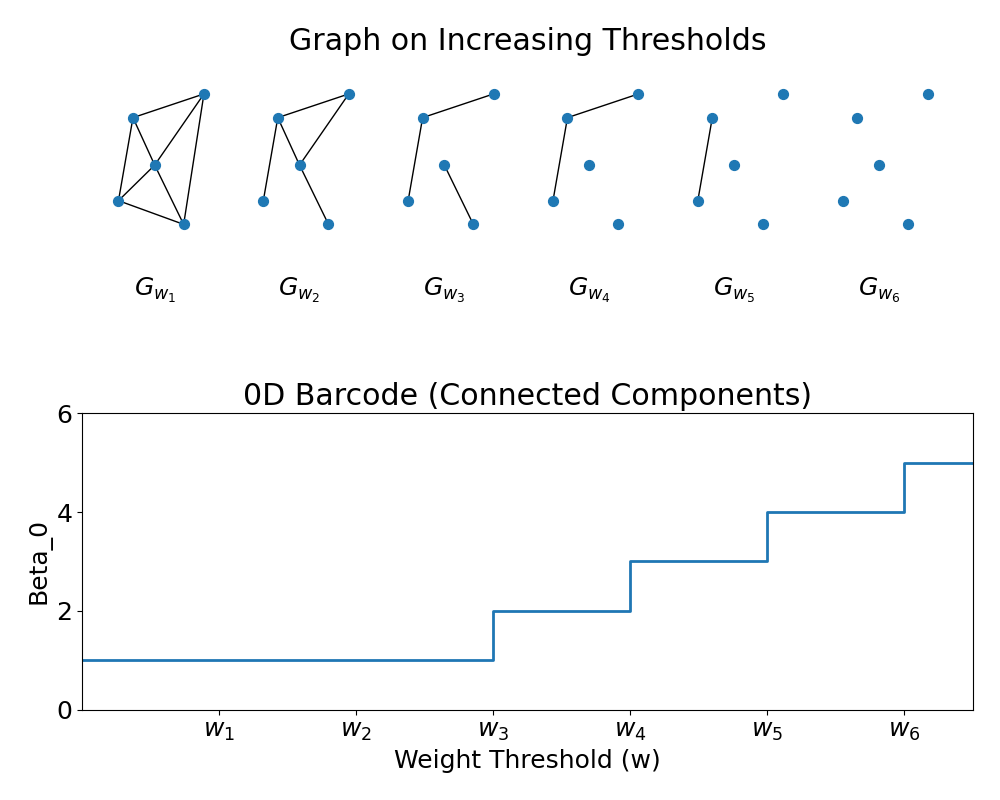
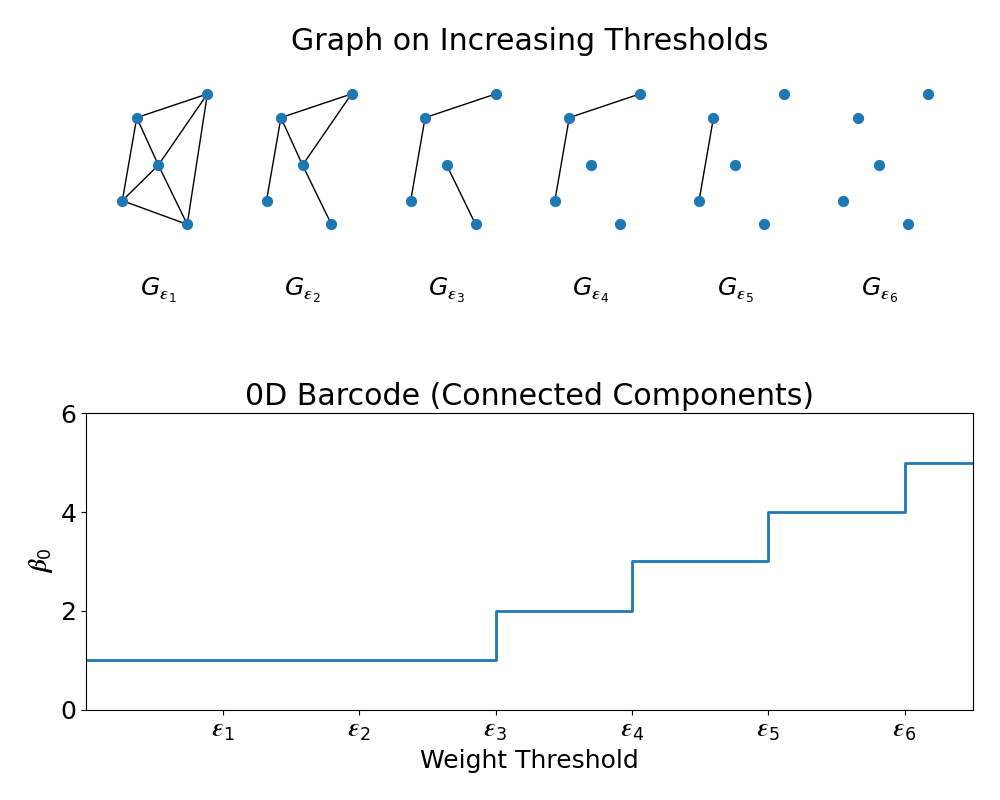
updated before defense

diff --git a/main.py b/main.py
@@ -175,8 +175,10 @@ def random_seed_search(subject_manager, n_clusters, topo_relative_weight, max_it
     best_labels_true = None
     best_seed = None
     labels_true = subject_manager.get_labels()
-
-    for seed in range(1000):
+    
+    sum_aris = 0
+    aris_list = []
+    for seed in range(100):
         config.random_seed = seed
         # Create the clustering model with the current seed
         clustering_model = src.clustering.k_centroids_clustering(subject_manager, n_clusters, topo_relative_weight, max_iter_alt,
@@ -195,12 +197,15 @@ def random_seed_search(subject_manager, n_clusters, topo_relative_weight, max_it
             best_labels_pred = labels_pred
             best_labels_true = labels_true
             best_seed = seed
-
+        sum_aris += ari_score
+        aris_list.append(ari_score)
     # After iterating through all seeds, print the best ARI and its corresponding labels and seed
     print('Best Adjusted Rand Index:', best_ari_score)
     print('Best Seed:', best_seed)
-    print('Best Labels Predicted:', best_labels_pred)
-    print('Labels True:', best_labels_true)
+    print('Average ARI:', sum_aris / 100)
+    print('variance:', np.var(aris_list))
+    #print('Best Labels Predicted:', best_labels_pred)
+    #print('Labels True:', best_labels_true)
     logging.info(f"Best ARI: {best_ari_score} with Random Seed: {best_seed}")
 
 def iter_search(subject_manager):
@@ -223,7 +228,7 @@ def k_centroids_test(subject_manager):
     topo_relative_weight = 0.25  # 'topo_relative_weight' between 0 and 1
 
     # Single test flag for single parameter testing
-    single_test = 1
+    single_test = 0
     if single_test == 1:
     
         clustering_model = src.clustering.k_centroids_clustering(subject_manager, n_clusters, topo_relative_weight, max_iter_alt,
@@ -239,18 +244,15 @@ def k_centroids_test(subject_manager):
         print(labels_true)
     else:
         # grid_search(subject_manager)
-        # random_seed_search(subject_manager, n_clusters, topo_relative_weight, max_iter_alt,max_iter_interp,learning_rate)
+        random_seed_search(subject_manager, n_clusters, topo_relative_weight, max_iter_alt,max_iter_interp,learning_rate)
         # iter_search(subject_manager)
-        clustering_model = src.clustering.k_centroids_clustering(subject_manager, n_clusters, topo_relative_weight, max_iter_alt,
-                                    max_iter_interp,
-                                    learning_rate)
-        clustering_model.visualize_with_MDS()
+        # clustering_model = src.clustering.k_centroids_clustering(subject_manager, n_clusters, topo_relative_weight, max_iter_alt, max_iter_interp, learning_rate)
 
 def similarity_score():
     subject_manager = SubjectLoader()
     subject_manager.load_subject_data()
     subject_manager.mci_correct()
-    group_averages = calculate_group_averages(subject_manager.subjects)
+    group_averages = calculate_group_averages(subject_manager.subjects, config.adj_mode)
     #print_subject_info(subject_manager)
     dissimilarity_matrix, groups = compute_dissimilarity_between_groups(group_averages)
     cn_average_dissimilarity = np.mean(dissimilarity_matrix[0])
@@ -354,10 +356,10 @@ def svm_classification(subject_loader, l1, l2):
     
     for subject in subject_loader.subjects:
         # Set the barcode mode to config values
-        barcode = get_barcode(subject.data, barcode_mode=config.barcode_mode, adj_mode=config.adj_mode, l = 0.462)
+        barcode = get_barcode(subject.data, barcode_mode=config.barcode_mode, adj_mode=config.adj_mode, l = 0.5)
         # plot_barcode(barcode)
         subject.set_barcode(barcode)
-    results = run_svm_classification(subject_loader.subjects, l1, l2, c_value = 1, cv_folds=5)
+    results = run_svm_classification(subject_loader.subjects, l1, l2, c_value = 1, cv_folds=5, random_state = 0)
 
     print(f"Average Cross-Validation Score: {results['average_score']}")
     print(f"Cross-Validation Scores for Each Fold: {results['cv_scores']}") 
@@ -372,14 +374,20 @@ if __name__ == '__main__':
     print(f"Adjacency Matrix Mode: {'Original' if config.adj_mode == 'original' else 'Ignore Negative Edges' if config.adj_mode == 'ignore_negative' else 'Absolute Values'}")
     print(f"Labeling Mode: {'Original Labels' if config.label_mode == 'original' else 'Binary Labels'}")
 
+    # The following code calculates the similarity between the group averages
+    # similarity_score()
+
+    # The following code tests the k-centroids clustering algorithm
     subject_manager = load_content()
-    # k_centroids_test(subject_manager)  
+    k_centroids_test(subject_manager)  
 
-    # l1= 0.85, l2 = 0.94
-    # c = 1, l = 0.99, random_state = 0
 
-    l1 = 0.85
-    l2 = 0.94
-    svm_classification(subject_manager, l1, l2)
+
+
+    # The following code tests the svm classification algorithm
+
+    l1 = 1
+    l2 = 1
+    # svm_classification(subject_manager, l1, l2)
 
     

diff --git a/src/clustering.py b/src/clustering.py
@@ -165,50 +165,4 @@ class k_centroids_clustering:
         sorted_death_ind = tuple(np.array(death_ind)[:, sorted_temp_ind])
         return sorted_birth_ind, sorted_death_ind
 
-    def visualize_with_MDS(self):
-        """
-        Visualizes the data points in a 2D plane by applying Multidimensional Scaling (MDS)
-        to the topological distances calculated by _compute_top_dist.
-        """
-        
-        X = self._barcode_to_array()  # Data array
-        assigned_centroids = X[random.sample(range(X.shape[0]), 1)]
-        # Calculate the pairwise topological distances matrix
-        if config.barcode_mode == "cycle":
-            n_node = 359 
-        elif config.barcode_mode == "attached":
-            n_node = 360
-        else:
-            print("Barcode Mode", config.barcode_mode," not supported in fit_predict function")
-        
-        n_edges = math.factorial(n_node) // math.factorial(2) // math.factorial(
-            n_node - 2)  # n_edges = (n_node choose 2)
-        self.weight_array = np.append(
-                np.repeat(1 - self.top_relative_weight, n_edges),
-                np.repeat(self.top_relative_weight, n_edges))
-        distances_matrix = np.zeros((len(X), len(X)))
-        for i in range(len(X)):
-            for j in range(len(X)):
-                if i != j:
-                    # Since _compute_top_dist expects specific shapes, adjust accordingly
-                    distance = self._compute_top_dist(X[i:i+1], X[j:j+1])
-                    distances_matrix[i, j] = distance
-                else:
-                    distances_matrix[i, j] = 0
-
-        # Apply MDS to convert distances into 2D coordinates
-        mds = MDS(n_components=2, dissimilarity="precomputed", random_state=42)
-        points_2d = mds.fit_transform(distances_matrix)
-        
-        # Plotting
-        plt.figure(figsize=(10, 7))
-        for cluster_id in np.unique(assigned_centroids):
-            indices = np.where(assigned_centroids == cluster_id)[0]
-            plt.scatter(points_2d[indices, 0], points_2d[indices, 1], label=f'Cluster {cluster_id}')
-
-        plt.title('Topological Clustering Visualization with MDS')
-        plt.xlabel('MDS Dimension 1')
-        plt.ylabel('MDS Dimension 2')
-        plt.legend()
-        plt.grid(True)
-        plt.show()
+    

diff --git a/src/barcode.py b/src/barcode.py
@@ -108,16 +108,21 @@ def get_barcode(adj, barcode_mode = "attached", adj_mode = "ignore_negative", l 
         else:
             print("invalid mode in barcode generation in topo-only mode")
     else: 
-        vec = adj[np.triu_indices(adj.shape[0], k=1)]
-        vec_scaled = vec * (1 - l)
-    
-    # Assuming compute_mst_sets(mst) and compute_nonmst_sets(nonmst) return numpy arrays
-        mst_scaled = compute_mst_sets(mst) * l
-        nonmst_scaled = compute_nonmst_sets(nonmst) * l  # If you need to multiply this by l, do it here similarly
+        if l == 1:
+            vec = adj[np.triu_indices(adj.shape[0], k=1)]
+            return np.concatenate((vec, compute_mst_sets(mst), compute_nonmst_sets(nonmst)), axis=0)
+        else: 
+            # print("lambda changed", l)
+            vec = adj[np.triu_indices(adj.shape[0], k=1)]
+            vec_scaled = vec * (1 - l)
         
-        # Use np.concatenate with a tuple containing all arrays to concatenate
-        barcode = np.concatenate((vec_scaled, mst_scaled, nonmst_scaled), axis=0)
-        return barcode
+        # Assuming compute_mst_sets(mst) and compute_nonmst_sets(nonmst) return numpy arrays
+            mst_scaled = compute_mst_sets(mst) * l
+            nonmst_scaled = compute_nonmst_sets(nonmst) * l  # If you need to multiply this by l, do it here similarly
+            
+            # Use np.concatenate with a tuple containing all arrays to concatenate
+            barcode = np.concatenate((vec_scaled, mst_scaled, nonmst_scaled), axis=0)
+            return barcode
 
 
 

diff --git a/paper_visuals/filtration_graph.py b/paper_visuals/filtration_graph.py
@@ -35,7 +35,7 @@ for idx, (step, subgraph) in enumerate(filtration_steps):
     
     nx.draw_networkx_nodes(subgraph, pos=subpos, ax=ax[0], node_size=50)
     nx.draw_networkx_edges(subgraph, pos=subpos, ax=ax[0])
-    ax[0].text(reversed_idx * 2 + 0.5, -0.5, f'$G_{{w_{7-step}}}$', horizontalalignment='center')
+    ax[0].text(reversed_idx * 2 + 0.5, -0.5, f'$G_{{𝜺_{7-step}}}$', horizontalalignment='center')
 
 ax[0].set_xlim(-0.5, len(filtration_steps) * 2 - 0.2)
 ax[0].set_ylim(-1, 1.5)
@@ -63,12 +63,12 @@ ax[1].step(steps, counts, where='post', linewidth=2)
 # Set the limits and labels for the barcode plot
 ax[1].set_xlim(0, max_filtration_step + 0.5)
 ax[1].set_ylim(0, max(counts) + 1)
-ax[1].set_xlabel('Weight Threshold (w)')
-ax[1].set_ylabel('Beta_0')
+ax[1].set_xlabel('Weight Threshold')
+ax[1].set_ylabel('$𝜷_0$')
 
 # Set the x-tick labels to reflect w_i notation
 ax[1].set_xticks(range(1, max_filtration_step + 1))
-ax[1].set_xticklabels([f'$w_{{{i}}}$' for i in range(1, max_filtration_step + 1)])
+ax[1].set_xticklabels([f'$𝜺_{{{i}}}$' for i in range(1, max_filtration_step + 1)])
 ax[1].set_title('0D Barcode (Connected Components)')
 
 # Show the plot

diff --git a/paper_visuals/similarities.py b/paper_visuals/similarities.py
@@ -2,6 +2,7 @@ import numpy as np
 import matplotlib.pyplot as plt
 from scipy.spatial.distance import pdist, squareform
 
+
 def set_mode(adj, mode='original'):
     if mode == 'ignore_negative':
         adj = np.where(adj < 0, 0, adj)
@@ -9,11 +10,11 @@ def set_mode(adj, mode='original'):
         adj = np.abs(adj)
     return adj
 
-def calculate_group_averages(subjects):
+def calculate_group_averages(subjects, input_mode='original'):
     """
     Calculate the average adjacency matrix for each group.
     """
-    mode = "original"
+    mode = input_mode
     group_matrices = {'AD': [], 'LMCI': [], 'EMCI': [], 'CN': []}
     for subject in subjects:
         group_matrices[subject.group].append(set_mode(subject.data, mode))

diff --git a/config.py b/config.py
@@ -10,7 +10,7 @@
 #    AD vs CN (ignore the rest)
 # 3. cn_separation:
 #    CN vs AD + MCI + LMCI + EMCI
-separation_mode = "strict_binary"
+separation_mode = "cn_separation"
 
 # Group names
 groups = ['AD', 'CN', 'LMCI', 'EMCI', 'MCI']
@@ -43,7 +43,7 @@ geo_mode = "geo_included"
 # Label mode
 # options: 1. "original"
 #          2. "binary"
-label_mode = "original"
+label_mode = "binary"
 
 # Directory containing the subject data files
 data_dir = './data'

diff --git a/tempCodeRunnerFile.py b/tempCodeRunnerFile.py
@@ -1,0 +1,12 @@
+# First, let's import the required libraries
+import numpy as np
+
+# List of accuracy results from the k-fold cross validation
+accuracies = [0.625, 0.75, 0.6086956521739131, 0.782608695652174, 0.7391304347826086]
+
+# Calculating the mean and standard deviation of the accuracies
+mean_accuracy = np.mean(accuracies)
+std_deviation = np.std(accuracies)
+
+print(mean_accuracy)
+print(std_deviation)

diff --git a/src/svm.py b/src/svm.py
@@ -92,6 +92,8 @@ def tsne_svm(data, labels, l):
     data_scaled = scaler.fit_transform(data)
     if config.separation_mode == "strict_binary":
         kernel = 'linear'
+    elif config.separation_mode == "cn_separation":
+        kernel = 'poly'
     else:
         kernel = 'rbf'
     # Train the SVM classifier

diff --git a/point_visualize.py b/point_visualize.py
@@ -149,7 +149,7 @@ else:
     # 0.423, 0.462
     # max l for mixed separation:
     # 0.261, 0.269
-    l = 0.461
+    l = 0.261
     data, labels = extract_data(subject_manager, l)
     # Visualize the data
     tsne = TSNE(n_components=2, random_state=42)
